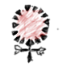
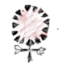
画像追加

diff --git a/resources/js/app.js b/resources/js/app.js
@@ -58,9 +58,10 @@ const scene = {
         this.load.image('ch_mass', 'assets/ch_mass.png');
         this.load.image('ch_db', 'assets/ch_db.png');
         this.load.image('ch_clown', 'assets/ch_clown.png');
+        this.load.image('ch_dog', 'assets/ch_dog.png');
+        this.load.image('ch_machine', 'assets/ch_machine.png');
         this.load.image('ch_scarecrow', 'assets/ch_scarecrow.png');
         this.load.image('ch_frasco', 'assets/ch_frasco.png');
-        this.load.image('ch_dog', 'assets/ch_dog.png');
         this.load.image('cat', 'assets/cat.png');
 
         // this.load.spritesheet('dude',

diff --git a/resources/js/game/CardList.js b/resources/js/game/CardList.js
@@ -116,6 +116,12 @@ const CardList = [
       type: 0,
     },
     {
+      power: 2,
+      name: '機械仕掛け',
+      image: 'ch_machine',
+      type: 0,
+    },
+    {
       power: 1,
       name: '犬',
       image: 'ch_dog',

diff --git a/resources/views/app_main.blade.php b/resources/views/app_main.blade.php
@@ -2,18 +2,17 @@
 <html lang="{{ str_replace('_', '-', app()->getLocale()) }}">
     <head>
         <meta charset="utf-8">
+        <meta http-equiv="content-language" content="ja">
         <meta name="viewport" content="width=device-width, initial-scale=1">
 
         <title>CARDS</title>
 
-        <!-- Fonts -->
         <link href="https://fonts.googleapis.com/css2?family=Nunito:wght@400;600;700&display=swap" rel="stylesheet">
-
-        <!-- Styles -->
+{{--
         <style>
             /*! normalize.css v8.0.1 | MIT License | github.com/necolas/normalize.css */html{line-height:1.15;-webkit-text-size-adjust:100%}body{margin:0}a{background-color:transparent}[hidden]{display:none}html{font-family:system-ui,-apple-system,BlinkMacSystemFont,Segoe UI,Roboto,Helvetica Neue,Arial,Noto Sans,sans-serif,Apple Color Emoji,Segoe UI Emoji,Segoe UI Symbol,Noto Color Emoji;line-height:1.5}*,:after,:before{box-sizing:border-box;border:0 solid #e2e8f0}a{color:inherit;text-decoration:inherit}svg,video{display:block;vertical-align:middle}video{max-width:100%;height:auto}.bg-white{--bg-opacity:1;background-color:#fff;background-color:rgba(255,255,255,var(--bg-opacity))}.bg-gray-100{--bg-opacity:1;background-color:#f7fafc;background-color:rgba(247,250,252,var(--bg-opacity))}.border-gray-200{--border-opacity:1;border-color:#edf2f7;border-color:rgba(237,242,247,var(--border-opacity))}.border-t{border-top-width:1px}.flex{display:flex}.grid{display:grid}.hidden{display:none}.items-center{align-items:center}.justify-center{justify-content:center}.font-semibold{font-weight:600}.h-5{height:1.25rem}.h-8{height:2rem}.h-16{height:4rem}.text-sm{font-size:.875rem}.text-lg{font-size:1.125rem}.leading-7{line-height:1.75rem}.mx-auto{margin-left:auto;margin-right:auto}.ml-1{margin-left:.25rem}.mt-2{margin-top:.5rem}.mr-2{margin-right:.5rem}.ml-2{margin-left:.5rem}.mt-4{margin-top:1rem}.ml-4{margin-left:1rem}.mt-8{margin-top:2rem}.ml-12{margin-left:3rem}.-mt-px{margin-top:-1px}.max-w-6xl{max-width:72rem}.min-h-screen{min-height:100vh}.overflow-hidden{overflow:hidden}.p-6{padding:1.5rem}.py-4{padding-top:1rem;padding-bottom:1rem}.px-6{padding-left:1.5rem;padding-right:1.5rem}.pt-8{padding-top:2rem}.fixed{position:fixed}.relative{position:relative}.top-0{top:0}.right-0{right:0}.shadow{box-shadow:0 1px 3px 0 rgba(0,0,0,.1),0 1px 2px 0 rgba(0,0,0,.06)}.text-center{text-align:center}.text-gray-200{--text-opacity:1;color:#edf2f7;color:rgba(237,242,247,var(--text-opacity))}.text-gray-300{--text-opacity:1;color:#e2e8f0;color:rgba(226,232,240,var(--text-opacity))}.text-gray-400{--text-opacity:1;color:#cbd5e0;color:rgba(203,213,224,var(--text-opacity))}.text-gray-500{--text-opacity:1;color:#a0aec0;color:rgba(160,174,192,var(--text-opacity))}.text-gray-600{--text-opacity:1;color:#718096;color:rgba(113,128,150,var(--text-opacity))}.text-gray-700{--text-opacity:1;color:#4a5568;color:rgba(74,85,104,var(--text-opacity))}.text-gray-900{--text-opacity:1;color:#1a202c;color:rgba(26,32,44,var(--text-opacity))}.underline{text-decoration:underline}.antialiased{-webkit-font-smoothing:antialiased;-moz-osx-font-smoothing:grayscale}.w-5{width:1.25rem}.w-8{width:2rem}.w-auto{width:auto}.grid-cols-1{grid-template-columns:repeat(1,minmax(0,1fr))}@media (min-width:640px){.sm\:rounded-lg{border-radius:.5rem}.sm\:block{display:block}.sm\:items-center{align-items:center}.sm\:justify-start{justify-content:flex-start}.sm\:justify-between{justify-content:space-between}.sm\:h-20{height:5rem}.sm\:ml-0{margin-left:0}.sm\:px-6{padding-left:1.5rem;padding-right:1.5rem}.sm\:pt-0{padding-top:0}.sm\:text-left{text-align:left}.sm\:text-right{text-align:right}}@media (min-width:768px){.md\:border-t-0{border-top-width:0}.md\:border-l{border-left-width:1px}.md\:grid-cols-2{grid-template-columns:repeat(2,minmax(0,1fr))}}@media (min-width:1024px){.lg\:px-8{padding-left:2rem;padding-right:2rem}}@media (prefers-color-scheme:dark){.dark\:bg-gray-800{--bg-opacity:1;background-color:#2d3748;background-color:rgba(45,55,72,var(--bg-opacity))}.dark\:bg-gray-900{--bg-opacity:1;background-color:#1a202c;background-color:rgba(26,32,44,var(--bg-opacity))}.dark\:border-gray-700{--border-opacity:1;border-color:#4a5568;border-color:rgba(74,85,104,var(--border-opacity))}.dark\:text-white{--text-opacity:1;color:#fff;color:rgba(255,255,255,var(--text-opacity))}.dark\:text-gray-400{--text-opacity:1;color:#cbd5e0;color:rgba(203,213,224,var(--text-opacity))}.dark\:text-gray-500{--tw-text-opacity:1;color:#6b7280;color:rgba(107,114,128,var(--tw-text-opacity))}}
         </style>
-
+ --}}
         <style>
             body {
                 font-family: 'Nunito', sans-serif;
